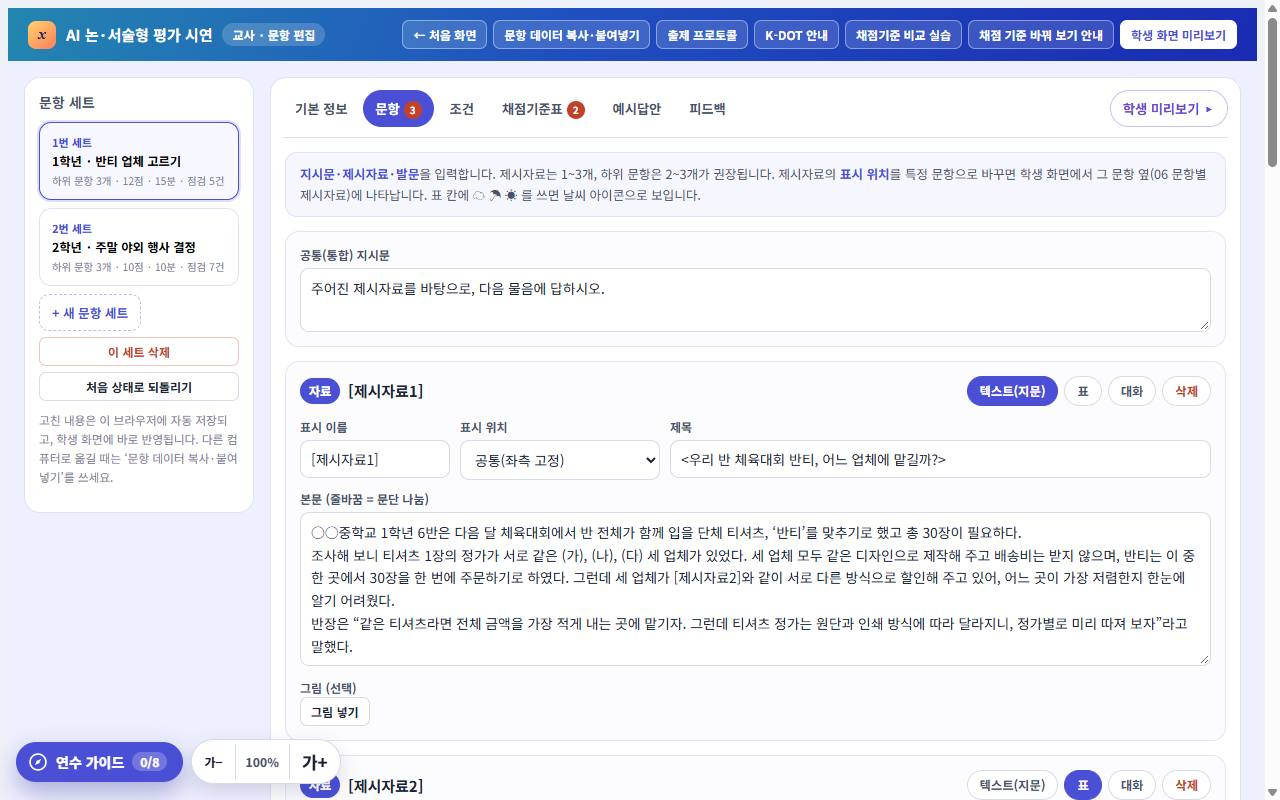
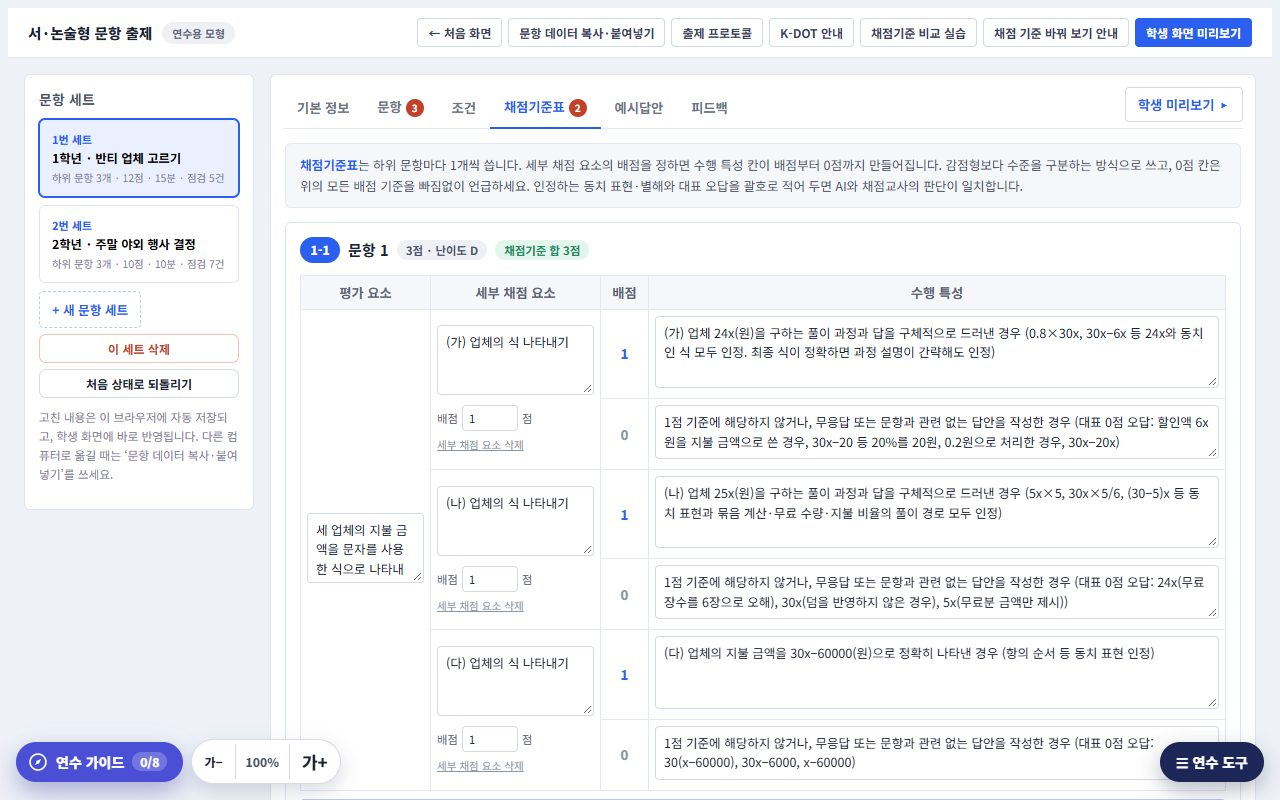
교사 편집 화면을 실제 문항 출제 화면 구성에 맞춤: 표 형식 기본 정보, 난이도·K-DOT 메타데이터 단추, 평가기준표 표

diff --git a/index.html b/index.html
@@ -987,6 +987,75 @@ body.skin-real .navs .nbtn.ind { background: #fff; color: var(--rb); border-colo
 body:not(.skin-real) #tLater, body:not(.skin-real) #bSubmit, body:not(.skin-real) .brand .uico, body:not(.skin-real) #rname, body:not(.skin-real) .brand .rf { display: none; }
 body.skin-real .brand > svg:first-child, body.skin-real #subj { display: none; }
 body.skin-real .brand #rname { max-width: 160px; }
+/* 교사 편집 화면 — 실제 시스템 문항 출제 화면 구성(설명자료 3·4쪽) */
+body.skin-real #teacherView { background: var(--rbg); }
+body.skin-real #teacherView .tbar { background: #fff; color: #1d2233; border-bottom: 1px solid #e3e8f2; padding: 10px 20px; }
+body.skin-real #teacherView .tbar .mk { display: none; }
+body.skin-real #teacherView .tbar .brand .ttlx { font-size: 1.08em; font-weight: 800; }
+body.skin-real #teacherView .tbar .who { background: #eef0f5; color: #5b6476; }
+body.skin-real #teacherView .tbar .acts .nbtn { background: #fff; color: #39415a; border-color: #d3d9e6; border-radius: 4px; }
+body.skin-real #teacherView .tbar .acts .nbtn.wht { background: var(--rb); color: #fff; border-color: var(--rb); }
+body.skin-real #teacherView .tcard { border-radius: 6px; border-color: #dde4f1; box-shadow: none; }
+body.skin-real #teacherView .setbtn { border-radius: 6px; }
+body.skin-real #teacherView .setbtn.on { border-color: var(--rb); box-shadow: 0 0 0 1px var(--rb); background: var(--rb-soft); }
+body.skin-real #teacherView .setbtn .sn { color: var(--rb); }
+body.skin-real #teacherView .ttabs { gap: 0; border-bottom: 1px solid #e3e8f2; padding-bottom: 0; }
+body.skin-real #teacherView .ttab { border-radius: 0; padding: 10px 14px; border-bottom: 2px solid transparent; margin-bottom: -1px; color: #6b7386; }
+body.skin-real #teacherView .ttab.on { background: transparent; color: var(--rb); border-bottom-color: var(--rb); }
+body.skin-real #teacherView .ttab.pv { border: 1px solid #d3d9e6; border-radius: 4px; padding: 6px 12px; margin-bottom: 6px; color: var(--rb); }
+body.skin-real #teacherView .tip { border-radius: 6px; background: #f5f7fb; border-color: #e3e8f2; }
+body.skin-real #teacherView .tip b { color: var(--rb); }
+body.skin-real #teacherView .blkcard { border-radius: 6px; background: #fff; border-color: #dde4f1; }
+body.skin-real #teacherView .qbadge { background: var(--rb); }
+body.skin-real #teacherView .f input, body.skin-real #teacherView .f select, body.skin-real #teacherView .f textarea, body.skin-real #teacherView .ed input, body.skin-real #teacherView .ed textarea, body.skin-real #teacherView .ed select { border-radius: 4px; border-color: #d3d9e6; }
+body.skin-real #teacherView .addbtn { border-radius: 4px; border-color: #b9c9f2; color: var(--rb); }
+body.skin-real #teacherView .mtype button { border-radius: 3px; border-color: #d3d9e6; }
+body.skin-real #teacherView .mtype button.on { background: var(--rb); border-color: var(--rb); }
+body.skin-real #teacherView .lvl .sc { border-radius: 4px; background: var(--rb-soft); color: var(--rb); }
+body.skin-real #teacherView .lvl .sc.z { background: #f0f2f6; color: #8a93a8; }
+body.skin-real #teacherView .rrow { border-radius: 6px; border-color: #dde4f1; }
+body.skin-real #teacherView .ck:hover { background: #f5f7fb; }
+.secttl { font-weight: 800; font-size: .92em; margin: 4px 0 8px; color: #1d2233; }
+.frm { width: 100%; border-collapse: collapse; margin-bottom: 16px; font-size: .9em; }
+.frm th { width: 130px; background: #f5f7fb; text-align: left; font-weight: 700; color: #39415a; padding: 8px 10px; border: 1px solid #e3e8f2; vertical-align: middle; }
+.frm th i { color: #e0452b; font-style: normal; }
+.frm td { padding: 6px 8px; border: 1px solid #e3e8f2; vertical-align: middle; }
+.frm td .f { gap: 0; }
+.chipg { display: flex; gap: 4px; flex-wrap: wrap; align-items: center; }
+.chipg button { border: 1px solid #d3d9e6; background: #fff; border-radius: 3px; padding: 5px 10px; font-size: .86em; color: #39415a; }
+.chipg button[aria-pressed="true"] { border-color: var(--rb, #2b5ff0); color: var(--rb, #2b5ff0); background: var(--rb-soft, #eaf0ff); font-weight: 700; }
+.chipg.rad button::before { content: ""; display: inline-block; width: 10px; height: 10px; border-radius: 50%; border: 1.5px solid #b8c0d0; margin-right: 5px; vertical-align: -1px; }
+.chipg.rad button[aria-pressed="true"]::before { border: 3.5px solid var(--rb, #2b5ff0); width: 6px; height: 6px; }
+.chipg.rad button { border: 0; background: none; padding: 4px 8px 4px 2px; }
+.stdsel { background: var(--rb-soft, #eaf0ff); border-radius: 6px; padding: 8px 10px; margin-top: 6px; font-size: .86em; }
+.stdsel b { display: block; margin-bottom: 4px; }
+.stdsel div { background: #fff; border: 1px solid #dfe5f2; border-radius: 4px; padding: 5px 8px; margin-top: 4px; line-height: 1.5; }
+.kdbox { display: grid; grid-template-columns: minmax(0, 1fr) 210px; gap: 10px; margin-top: 10px; }
+.kdbox .kin { border: 1px solid #dfe5f2; border-radius: 6px; padding: 10px 12px; background: #fff; }
+.kdbox .kin h6 { margin: 0 0 6px; font-size: .86em; display: flex; align-items: center; gap: 6px; }
+.kdbox .kin h6 .n { width: 18px; height: 18px; border-radius: 50%; background: #2b5ff0; color: #fff; font-size: .78em; display: grid; place-items: center; }
+.kdbox .kin small { display: block; color: #8a93a8; font-size: .78em; margin: 6px 0 4px; }
+.kdbox .ksel { border: 1px solid #dfe5f2; border-radius: 6px; padding: 10px 12px; background: #fff; font-size: .82em; }
+.kdbox .ksel b { display: block; margin-bottom: 6px; }
+.kdbox .ksel dt { color: #6b7386; margin-top: 6px; }
+.kdbox .ksel dd { margin: 2px 0 0; }
+.kdbox .ksel dd span { display: inline-block; background: var(--rb-soft, #eaf0ff); color: #2b5ff0; border-radius: 3px; padding: 1px 7px; font-weight: 700; }
+.edhead { font-size: .82em; font-weight: 700; color: #39415a; margin: 12px 0 4px; }
+.rtabw { overflow-x: auto; }
+.rtab { width: 100%; border-collapse: collapse; font-size: .88em; min-width: 640px; }
+.rtab th { background: #f5f7fb; color: #5b6476; font-weight: 700; padding: 7px; border: 1px solid #e3e8f2; }
+.rtab td { border: 1px solid #e3e8f2; padding: 6px; vertical-align: top; background: #fff; }
+.rtab td.ea { width: 130px; vertical-align: middle; }
+.rtab td.sb { width: 170px; vertical-align: middle; }
+.rtab td.c { width: 48px; text-align: center; vertical-align: middle; font-weight: 800; color: #2b5ff0; font-variant-numeric: tabular-nums; }
+.rtab td.c.z { color: #8a93a8; }
+.rtab textarea { width: 100%; box-sizing: border-box; border: 1px solid #d3d9e6; border-radius: 4px; padding: 6px 8px; font: inherit; font-size: .95em; line-height: 1.55; resize: vertical; min-height: 54px; }
+.rtab td.ea textarea, .rtab td.sb textarea { min-height: 70px; }
+.rtab .sbp { display: flex; align-items: center; gap: 4px; margin-top: 6px; font-size: .86em; color: #5b6476; }
+.rtab .sbp input { width: 56px; border: 1px solid #d3d9e6; border-radius: 4px; padding: 4px 6px; font: inherit; }
+.rtab .sbdel { margin-top: 6px; border: 0; background: none; color: #8a93a8; font-size: .8em; padding: 0; text-decoration: underline; cursor: pointer; }
+.addrow { width: 100%; margin-top: 8px; border: 1px solid #b9c9f2; background: #fff; color: #2b5ff0; border-radius: 4px; padding: 8px; font-weight: 700; font-size: .86em; }
+@media (max-width: 760px) { .kdbox { grid-template-columns: 1fr; } .frm th { width: 92px; } }
 /* 교사 최종 채점(설명자료 8쪽 구성) */
 .gmode { display: flex; gap: 6px; margin: 0 0 10px; flex-wrap: wrap; }
 .gmode button { border: 1px solid #d3d9e6; background: #fff; border-radius: 999px; padding: 6px 14px; font-weight: 700; font-size: .86em; color: #39415a; cursor: pointer; }
@@ -1218,7 +1287,7 @@ body.skin-real .brand #rname { max-width: 160px; }
 <!-- ============ 교사 편집 화면 ============ -->
 <div class="tview" id="teacherView" hidden>
   <div class="tbar">
-    <div class="brand"><span class="mk" aria-hidden="true">x</span>AI 논·서술형 평가 시연 <span class="who">교사 · 문항 편집</span></div>
+    <div class="brand"><span class="mk" aria-hidden="true">x</span><span class="ttlx" id="tTtl">AI 논·서술형 평가 시연</span> <span class="who" id="tWho">교사 · 문항 편집</span></div>
     <div class="acts">
       <button class="nbtn sm" id="tHome">← 처음 화면</button>
       <button class="nbtn sm" id="tData">문항 데이터 복사·붙여넣기</button>
@@ -2646,9 +2715,80 @@ function F(label, path, val, o){
 }
 function qhead(it, ii, extra){ return '<div class="blkhead"><h4><span class="qbadge">' + (tSet + 1) + '-' + (ii + 1) + '</span>문항 ' + (ii + 1) + ' <span class="pill mute">' + (+it.pts || 0) + '점 · 난이도 ' + esc(it.level) + '</span>' + (extra || '') + '</h4></div>'; }
 
+/* 실제 시스템 문항 출제 화면처럼(설명자료 3·4쪽): 표 형식 입력, 단추 고르기, K-DOT 메타데이터, 평가기준표 표 */
+function isReal(){ return document.body.classList.contains('skin-real'); }
+function chips(path, val, opts, rad){
+  var list = opts.slice(); if (val && list.indexOf(val) < 0) list.push(val);
+  return '<div class="chipg' + (rad ? ' rad' : '') + '" role="group">' + list.map(function(o){
+    var v = Array.isArray(o) ? o[0] : o, t = Array.isArray(o) ? o[1] : o;
+    return '<button type="button" data-act="setv" data-p="' + path + '" data-v="' + esc(v) + '" aria-pressed="' + (String(v) === String(val)) + '"' + (Array.isArray(o) && o[2] ? ' title="' + esc(o[2]) + '"' : '') + '>' + esc(t) + '</button>';
+  }).join('') + '</div>';
+}
+function FR(label, ctl, req){ return '<tr><th>' + label + (req ? ' <i>*</i>' : '') + '</th><td>' + ctl + '</td></tr>'; }
+function realInfo(st){
+  var i = st.info, stds = String(i.standards || '').split('\n').map(function(x){ return x.trim(); }).filter(Boolean);
+  return '<div class="tip"><b>평가도구 정보</b>는 시스템의 문항 정보와 피드백에 쓰입니다. 실제 시스템의 문항 출제 화면처럼 교육과정 정보 → 출제 의도 → 성취기준 순으로 입력합니다.</div>' +
+    '<div class="secttl">학교급 및 교과/과목</div><table class="frm"><tbody>' +
+    FR('교육과정', chips('info.curr', i.curr || '2022 개정', ['2022 개정', '2015 개정'], true), 1) +
+    FR('학교급', chips('info.school', i.school, ['초등학교', '중학교', '고등학교']), 1) +
+    FR('학년', chips('info.grade', i.grade, ['1학년', '2학년', '3학년']), 1) +
+    FR('교과', F('', 'info.subject', i.subject), 1) +
+    '</tbody></table>' +
+    '<div class="secttl">교과 관련 내용 및 출제 의도 (Set 정보)</div><table class="frm"><tbody>' +
+    FR('세트 이름', F('', 'info.nick', i.nick, { ph: '예: 반티 업체 고르기 (화면 표시용)' })) +
+    FR('출판사 선택', F('', 'info.publisher', i.publisher), 1) +
+    FR('단원', F('', 'info.area', i.area, { ph: '예: 변화와 관계/문자와 식' }), 1) +
+    FR('관련 교과 내용', F('', 'info.related', i.related)) +
+    FR('출제 의도', F('', 'info.intent', i.intent, { area: true, rows: 4 })) +
+    '</tbody></table>' +
+    '<div class="secttl">평가 정보</div><table class="frm"><tbody>' +
+    FR('평가방법', chips('info.method', i.method, ['정기시험', '수행평가']), 1) +
+    FR('평가시간(분)', F('', 'info.time', i.time, { num: true, max: 120 }), 1) +
+    FR('문항 유형', F('', 'info.qtype', i.qtype)) +
+    FR('평가 요소', F('', 'info.evalMain', i.evalMain)) +
+    '</tbody></table>' +
+    '<div class="secttl">성취기준</div><table class="frm"><tbody>' +
+    FR('성취기준', F('', 'info.standards', i.standards, { area: true, rows: 3, ph: '한 줄에 하나씩 입력' }) +
+      '<div class="stdsel"><b>선택된 성취기준 (' + stds.length + '개)</b>' + (stds.length ? stds.map(function(s){ return '<div>' + esc(s) + '</div>'; }).join('') : '<div style="color:#8a93a8">아직 없습니다.</div>') + '</div>', 1) +
+    '</tbody></table>';
+}
+function realItemMeta(it, ii){
+  var p = 'items.' + ii, lv = it.dot ? KD_LEVELS[+it.dot - 1] : null;
+  return '<table class="frm" style="margin-bottom:0"><tbody>' +
+    FR('예상 난이도', chips(p + '.level', it.level, ['A', 'B', 'C', 'D', 'E']) + '<small style="color:#8a93a8;font-size:.78em">예상 성취수준(A~E)</small>', 1) +
+    FR('배점', F('', p + '.pts', it.pts, { num: true, min: 1, max: 20 }), 1) +
+    FR('평가 요소', F('', p + '.eval', it.eval)) +
+    '</tbody></table>' +
+    '<div class="kdbox"><div class="kin"><div class="secttl" style="margin-top:0">K-DOT (Depth Of Thought) 메타데이터 입력</div>' +
+      '<h6><span class="n">1</span>사고 수준</h6>' + chips(p + '.dot', it.dot ? String(it.dot) : '', KD_LEVELS.map(function(l){ return [String(l.n), 'K-DOT ' + l.n, l.name + ' (' + l.ao + ')']; })) +
+      '<h6 style="margin-top:10px"><span class="n">2</span>수행 요소</h6>' + (lv ? chips(p + '.perf', it.perf || '', lv.perf) : '<small>사고 수준을 먼저 고르세요.</small>') +
+      '<div class="kdot-hint">서울 K-DOT 매뉴얼 기준입니다. 한 문항에 여러 수준이 섞이면 가장 높은 수준을 고릅니다. ' + (lv ? '<b>K-DOT' + it.dot + '</b>: ' + esc(lv.desc) + ' ' : '') + '<button type="button" data-kd="1">수준별 설명 보기</button></div></div>' +
+    '<div class="ksel"><b>선택한 메타데이터</b><dl style="margin:0"><dt>사고 수준</dt><dd>' + (lv ? '<span>K-DOT ' + it.dot + '</span> ' + esc(lv.name) : '－') + '</dd><dt>수행 요소</dt><dd>' + (it.perf ? '<span>' + esc(it.perf) + '</span>' : '－') + '</dd></dl></div></div>';
+}
+function realRubric(it, ii){
+  var p = 'items.' + ii, rows = it.rubric || [], total = rows.reduce(function(t, r){ return t + (r.levels || []).length; }, 0);
+  var areaCell = '<td class="ea" rowspan="' + Math.max(1, total) + '"><textarea data-p="' + p + '.area" placeholder="평가 요소를 입력하세요." aria-label="평가 요소">' + esc(it.area) + '</textarea></td>';
+  var h = '<div class="rtabw"><table class="rtab"><thead><tr><th>평가 요소</th><th>세부 채점 요소</th><th>배점</th><th>수행 특성</th></tr></thead><tbody>';
+  if (!total) h += '<tr>' + areaCell + '<td colspan="3" style="color:#8a93a8;vertical-align:middle">세부 채점 요소가 없습니다. 아래 버튼으로 추가하세요.</td></tr>';
+  var first = true;
+  rows.forEach(function(r, ri){
+    var rp = p + '.rubric.' + ri;
+    (r.levels || []).forEach(function(l, li){
+      h += '<tr>' + (first ? areaCell : '');
+      first = false;
+      if (li === 0) h += '<td class="sb" rowspan="' + r.levels.length + '"><textarea data-p="' + rp + '.sub" placeholder="세부 채점 요소" aria-label="세부 채점 요소">' + esc(r.sub) + '</textarea>' +
+        '<div class="sbp">배점 <input type="number" min="1" max="10" data-p="' + rp + '.pts" data-num="1" data-struct="1" value="' + esc(r.pts) + '" aria-label="' + esc(r.sub) + ' 배점">점</div>' +
+        '<button type="button" class="sbdel" data-act="drow" data-i="' + ii + '" data-k="' + ri + '">세부 채점 요소 삭제</button></td>';
+      h += '<td class="c' + (l.s === 0 ? ' z' : '') + '">' + l.s + '</td><td><textarea data-p="' + rp + '.levels.' + li + '.d" rows="' + (l.s === 0 ? 2 : 3) + '" aria-label="' + esc(r.sub) + ' ' + l.s + '점 수행 특성">' + esc(l.d) + '</textarea></td></tr>';
+    });
+  });
+  return h + '</tbody></table></div><button type="button" class="addrow" data-act="arow" data-i="' + ii + '">+ 세부 채점 요소 추가</button>';
+}
+
 function renderTab(){
   var st = S(), h = '';
-  if (tTab === 'info') {
+  if (tTab === 'info' && isReal()) h += realInfo(st);
+  else if (tTab === 'info') {
     h += '<div class="tip"><b>평가도구 정보</b>는 시스템의 문항 정보와 피드백에 쓰입니다. 평가 요소는 채점기준표의 평가 요소와 표현을 맞춰 주세요.</div><div class="fgrid">' +
       F('세트 이름(화면 표시용)', 'info.nick', st.info.nick, { ph: '예: 반티 업체 고르기' }) +
       F('학교급', 'info.school', st.info.school) + F('학년', 'info.grade', st.info.grade) + F('과목명', 'info.subject', st.info.subject) +
@@ -2694,13 +2834,14 @@ function renderTab(){
     h += '<div class="blkcard">' + F('자료 출처·가상 자료 안내', 'note', st.note, { wide: true }) + '</div>';
     st.items.forEach(function(it, ii){
       var p = 'items.' + ii;
-      h += '<div class="blkcard">' + qhead(it, ii) +
+      if (isReal()) h += '<div class="blkcard">' + qhead(it, ii) + realItemMeta(it, ii) + '<div class="edhead">문제(발문) 입력</div>' + F('', p + '.q', it.q, { area: true, wide: true, rows: 4 });
+      else h += '<div class="blkcard">' + qhead(it, ii) +
         '<div class="row3">' + F('난이도(예상 성취수준)', p + '.level', it.level, { opts: ['A', 'B', 'C', 'D', 'E'] }) + F('배점', p + '.pts', it.pts, { num: true, min: 1, max: 20 }) + F('평가 요소', p + '.eval', it.eval) + '</div>' +
         '<div class="row3" style="margin-top:10px">' + F('사고 수준(K-DOT)', p + '.dot', it.dot || '', { opts: [['', '선택하세요']].concat(KD_LEVELS.map(function(l){ return [String(l.n), 'K-DOT' + l.n + ' ' + l.name + ' (' + l.ao + ')']; })), struct: true }) +
           F('수행 요소', p + '.perf', it.perf || '', { opts: [['', it.dot ? '선택하세요' : '사고 수준을 먼저 고르세요']].concat(it.dot ? KD_LEVELS[+it.dot - 1].perf : []).concat(it.perf && !(it.dot && KD_LEVELS[+it.dot - 1].perf.indexOf(it.perf) >= 0) ? [it.perf] : []), struct: true }) + '</div>' +
         '<div class="kdot-hint">서울 K-DOT 매뉴얼 기준입니다. 한 문항에 여러 수준이 섞이면 가장 높은 수준을 고릅니다. ' + (it.dot ? '<b>K-DOT' + it.dot + '</b>: ' + esc(KD_LEVELS[+it.dot - 1].desc) + ' ' : '') + '<button type="button" data-kd="1">수준별 설명 보기</button></div>' +
-        '<div style="margin-top:10px">' + F('발문', p + '.q', it.q, { area: true, wide: true, rows: 4 }) + '</div>' +
-        '<details style="margin-top:10px"' + ((it.picks || []).length ? ' open' : '') + '><summary class="flabel" style="cursor:pointer">선택형 결론 (선택 사항) — 결론은 고르고 근거만 서술하게 할 때</summary><div class="lst" style="margin-top:8px">' +
+        '<div style="margin-top:10px">' + F('발문', p + '.q', it.q, { area: true, wide: true, rows: 4 }) + '</div>';
+      h += '<details style="margin-top:10px"' + ((it.picks || []).length ? ' open' : '') + '><summary class="flabel" style="cursor:pointer">선택형 결론 (선택 사항) — 결론은 고르고 근거만 서술하게 할 때</summary><div class="lst" style="margin-top:8px">' +
         (it.picks || []).map(function(pk, pi){
           return '<div class="li" style="grid-template-columns:minmax(0,1fr) minmax(0,1.4fr) minmax(0,1fr) auto"><input data-p="' + p + '.picks.' + pi + '.pre" value="' + esc(pk.pre) + '" placeholder="앞 문장 (예: 행사를)" aria-label="앞 문장"><input data-p="' + p + '.picks.' + pi + '.opts" value="' + esc(pk.opts) + '" placeholder="선택지를 / 로 구분 (예: 진행 / 취소)" aria-label="선택지"><input data-p="' + p + '.picks.' + pi + '.post" value="' + esc(pk.post) + '" placeholder="뒷 문장" aria-label="뒷 문장"><button class="xbtn" data-act="dpick" data-i="' + ii + '" data-k="' + pi + '" aria-label="선택 항목 삭제">×</button></div>';
         }).join('') + '<button class="addbtn" data-act="apick" data-i="' + ii + '">+ 선택 항목 추가</button></div></details>' +
@@ -2724,8 +2865,12 @@ function renderTab(){
     h += '<div class="tip"><b>채점기준표</b>는 하위 문항마다 1개씩 씁니다. 세부 채점 요소의 배점을 정하면 수행 특성 칸이 배점부터 0점까지 만들어집니다. 감점형보다 수준을 구분하는 방식으로 쓰고, 0점 칸은 위의 모든 배점 기준을 빠짐없이 언급하세요. 인정하는 동치 표현·별해와 대표 오답을 괄호로 적어 두면 AI와 채점교사의 판단이 일치합니다.</div>';
     st.items.forEach(function(it, ii){
       var p = 'items.' + ii, sum = rubricSum(it), okp = sum === +it.pts;
-      h += '<div class="blkcard">' + qhead(it, ii, '<span class="pill ' + (okp ? 'ok' : 'err') + '">채점기준 합 ' + sum + '점' + (okp ? '' : ' ≠ 배점 ' + it.pts + '점') + '</span>') +
-        F('평가 요소', p + '.area', it.area, { wide: true }) + '<div style="height:10px"></div>';
+      h += '<div class="blkcard">' + qhead(it, ii, '<span class="pill ' + (okp ? 'ok' : 'err') + '">채점기준 합 ' + sum + '점' + (okp ? '' : ' ≠ 배점 ' + it.pts + '점') + '</span>');
+      if (isReal()) {
+        h += realRubric(it, ii) + '<div style="margin-top:10px">' + F('평가기준표 아래 안내 (선택)', p + '.rubricNote', it.rubricNote, { wide: true, ph: '예: ※ 이월 오류는 이중으로 감점하지 않음.' }) + '</div></div>';
+        return;
+      }
+      h += F('평가 요소', p + '.area', it.area, { wide: true }) + '<div style="height:10px"></div>';
       (it.rubric || []).forEach(function(r, ri){
         var rp = p + '.rubric.' + ri;
         h += '<div class="rrow"><div class="row2">' + F('세부 채점 요소', rp + '.sub', r.sub) + F('배점', rp + '.pts', r.pts, { num: true, min: 1, max: 10, struct: true }) + '</div>' +
@@ -2799,6 +2944,12 @@ $('tbody').addEventListener('click', function(e){
   var b = e.target.closest('[data-act]'); if (!b || b.tagName === 'INPUT') return;
   var st = S(), a = b.dataset.act, d = b.dataset, it = d.i != null ? st.items[+d.i] : null, m = d.m != null ? st.materials[+d.m] : null;
   switch (a) {
+    case 'setv': var sr = getRef(st, d.p), nv = d.v;
+      if (/\.perf$/.test(d.p) && sr.o[sr.k] === nv) nv = '';
+      sr.o[sr.k] = nv;
+      var dm = d.p.match(/^items\.(\d+)\.dot$/);
+      if (dm) { var di = st.items[+dm[1]]; if (di.perf && KD_LEVELS[+nv - 1].perf.indexOf(di.perf) < 0) di.perf = ''; }
+      break;
     case 'mtype': m.type = d.v; if (d.v === 'table' && !m.rows) m.rows = [['항목', '내용'], ['', '']]; if (d.v === 'dialogue' && !m.lines) m.lines = [{ who: '', text: '' }]; if (d.v === 'text' && m.body == null) m.body = ''; break;
     case 'delmat': confirmDo('‘' + (m.label || '제시자료') + '’를 삭제할까요?', function(){ st.materials.splice(+d.m, 1); renderTab(); afterEdit(); }); return;
     case 'addmat': st.materials.push({ type: 'text', label: '[제시자료' + (st.materials.length + 1) + ']', title: '', place: 'common', body: '' }); break;
@@ -4390,7 +4541,7 @@ $('apToday').addEventListener('click', openToday);
 $('lkAiep').addEventListener('click', openAiep);
 
 /* 실제 시스템 외형: 기본. ?skin=demo 면 예전 외형 */
-if (!/[?&]skin=demo\b/.test(location.search)) { document.body.classList.add('skin-real'); $('ttlChip').textContent = '연수용 모형'; }
+if (!/[?&]skin=demo\b/.test(location.search)) { document.body.classList.add('skin-real'); $('ttlChip').textContent = '연수용 모형'; $('tTtl').textContent = '서·논술형 문항 출제'; $('tWho').textContent = '연수용 모형'; }
 
 applyScale();
 refreshMissions();

diff --git a/guide.html b/guide.html
@@ -156,7 +156,8 @@ footer { text-align: center; font-size: 13px; color: var(--ink-3); padding: 30px
 
   <div class="screen">
     <a href="guide/teacher.jpg" target="_blank" rel="noopener"><img src="guide/teacher.jpg" alt="교사 편집 화면" loading="lazy"></a>
-    <div><p class="k">교사 편집 화면 · 연수생</p><h3>문항·조건·채점기준표·예시답안 고치기</h3>
+    <div><p class="k">교사 편집 화면 · 연수생 <span class="tag n">외형 바꿈</span></p><h3>문항·조건·채점기준표·예시답안 고치기</h3>
+      <p>실제 시스템의 문항 출제 화면 구성에 맞춰, 기본 정보는 표 형식(교육과정·학교급·학년 단추 고르기, 선택된 성취기준), 문항에는 예상 난이도 단추와 <b>K-DOT 메타데이터 입력</b>(사고 수준·수행 요소 단추, 선택한 메타데이터), 채점기준표는 <b>평가 요소 | 세부 채점 요소 | 배점 | 수행 특성</b> 표로 바꿨습니다.</p>
       <p>왼쪽은 세트 목록, 가운데는 편집 탭(기본 정보·문항·조건·채점기준표·예시답안 등), 오른쪽은 <b>자동 점검</b>입니다. 새 세트를 만들거나 기본 문항으로 되돌릴 수 있습니다.</p>
       <p>위쪽 버튼으로 출제 프로토콜, K-DOT 안내, 채점기준 비교 실습으로 바로 갈 수 있습니다.</p>
       <div class="open"><a href="./#teacher">열기</a><code>…/#teacher</code></div></div>

diff --git a/README.md b/README.md
@@ -58,6 +58,7 @@
 - **학생 응시 화면 외형**을 실제 평가 화면 구성(흰 상단 바·응시자 이름·남은 시간, 동그란 문제 번호, 파란 테두리 칸, 아래 도구 막대)에 맞춤. **나중에 풀기** 표시, 언제나 보이는 **답안 제출** 버튼 추가. 예전 외형은 주소에 `?skin=demo`
 - AI 채점 결과 창에 **교사 최종 채점 화면** (`#final`): 채점 결과 비교(AI 채점 / 다시 채점) · 최종 확정 채점기준표(교사가 칸 선택, 기본값 AI) · AI 채점 결과 설명(교사·AI 일치 여부) · 학생 피드백(고치기·초기화) · 채점 특이사항 메모
 - **실제 시스템 안내** (`#aiep`): 문항출제시스템(출제·검수, 심화과정)과 인천 AI 평가지원시스템(배포·답안 확인·채점, 기본과정) 구분, 문항 설계부터 교사 최종 채점까지 7단계와 단계별 바로가기
+- **교사 편집 화면 외형**도 실제 문항 출제 화면 구성에 맞춤: 기본 정보 표 형식(교육과정·학교급·학년·평가방법 단추, 선택된 성취기준), 문항별 예상 난이도 단추·K-DOT 메타데이터 입력(사고 수준·수행 요소 단추, 선택한 메타데이터), 채점기준표를 평가 요소 | 세부 채점 요소 | 배점 | 수행 특성 표로. 기능·저장 형식은 그대로(`?skin=demo`면 예전 화면)
 - 로고·제품명은 넣지 않고 ‘연수용 모형’ 표시 유지
 
 ## 연수 도우미
